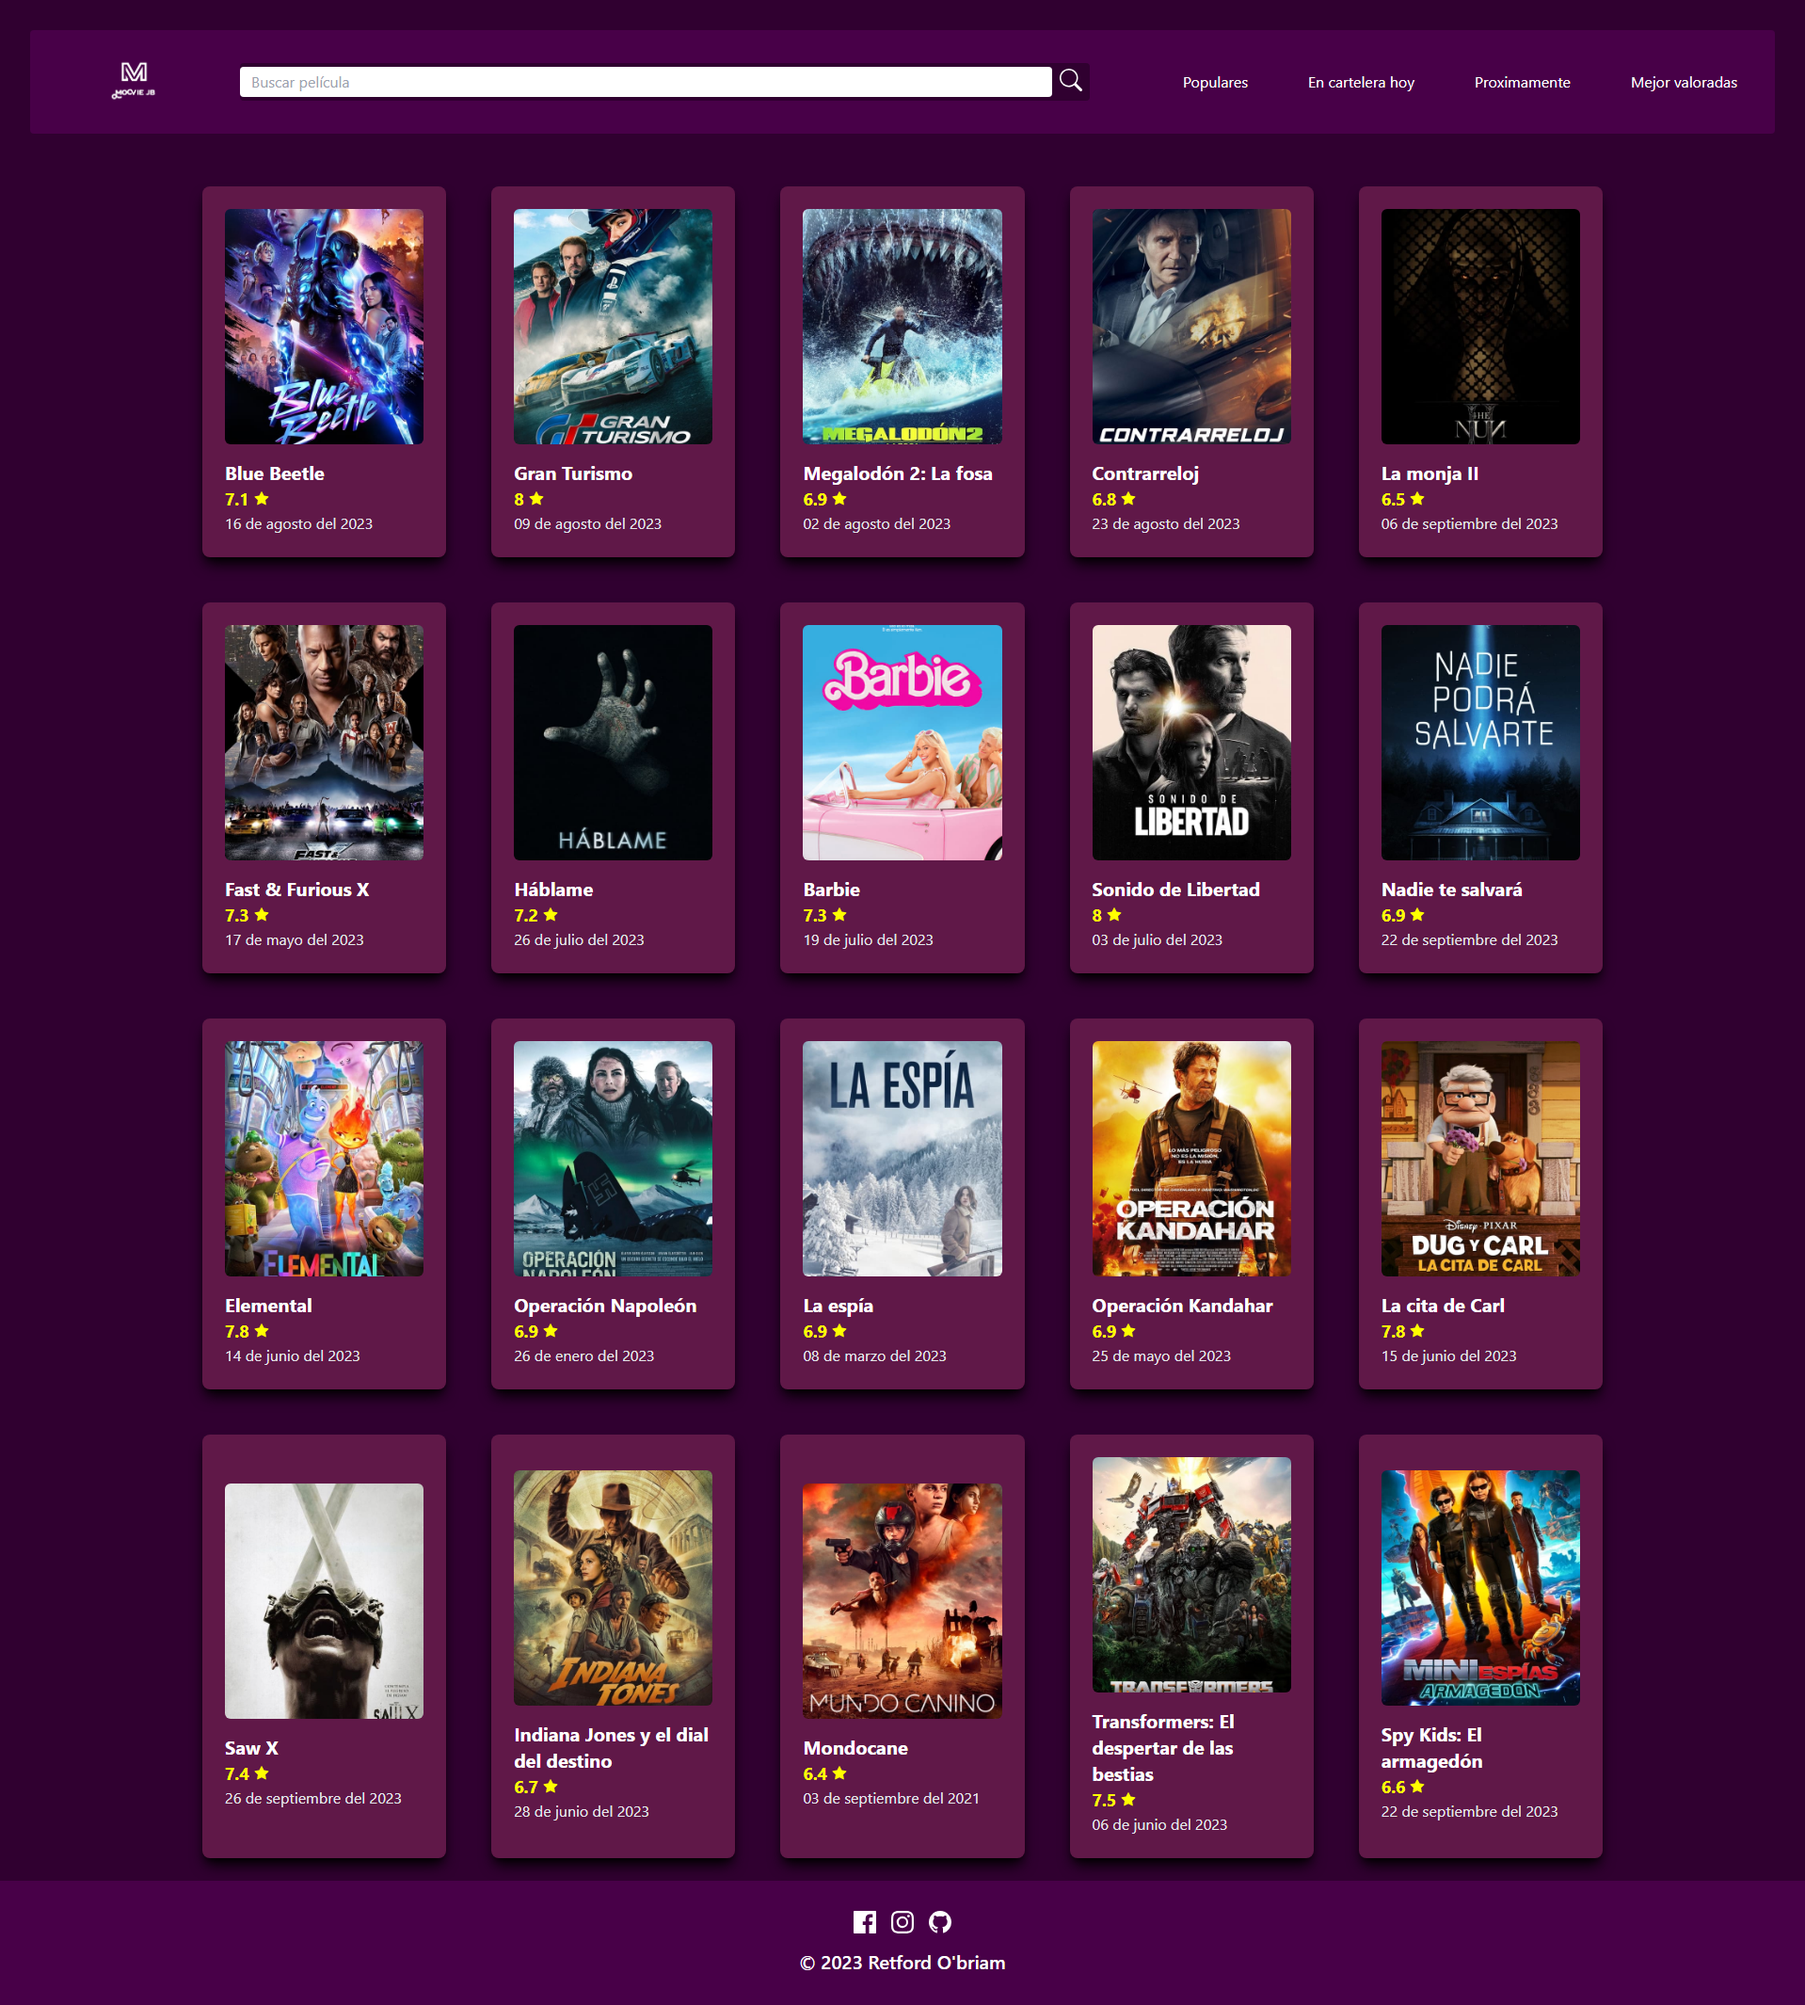
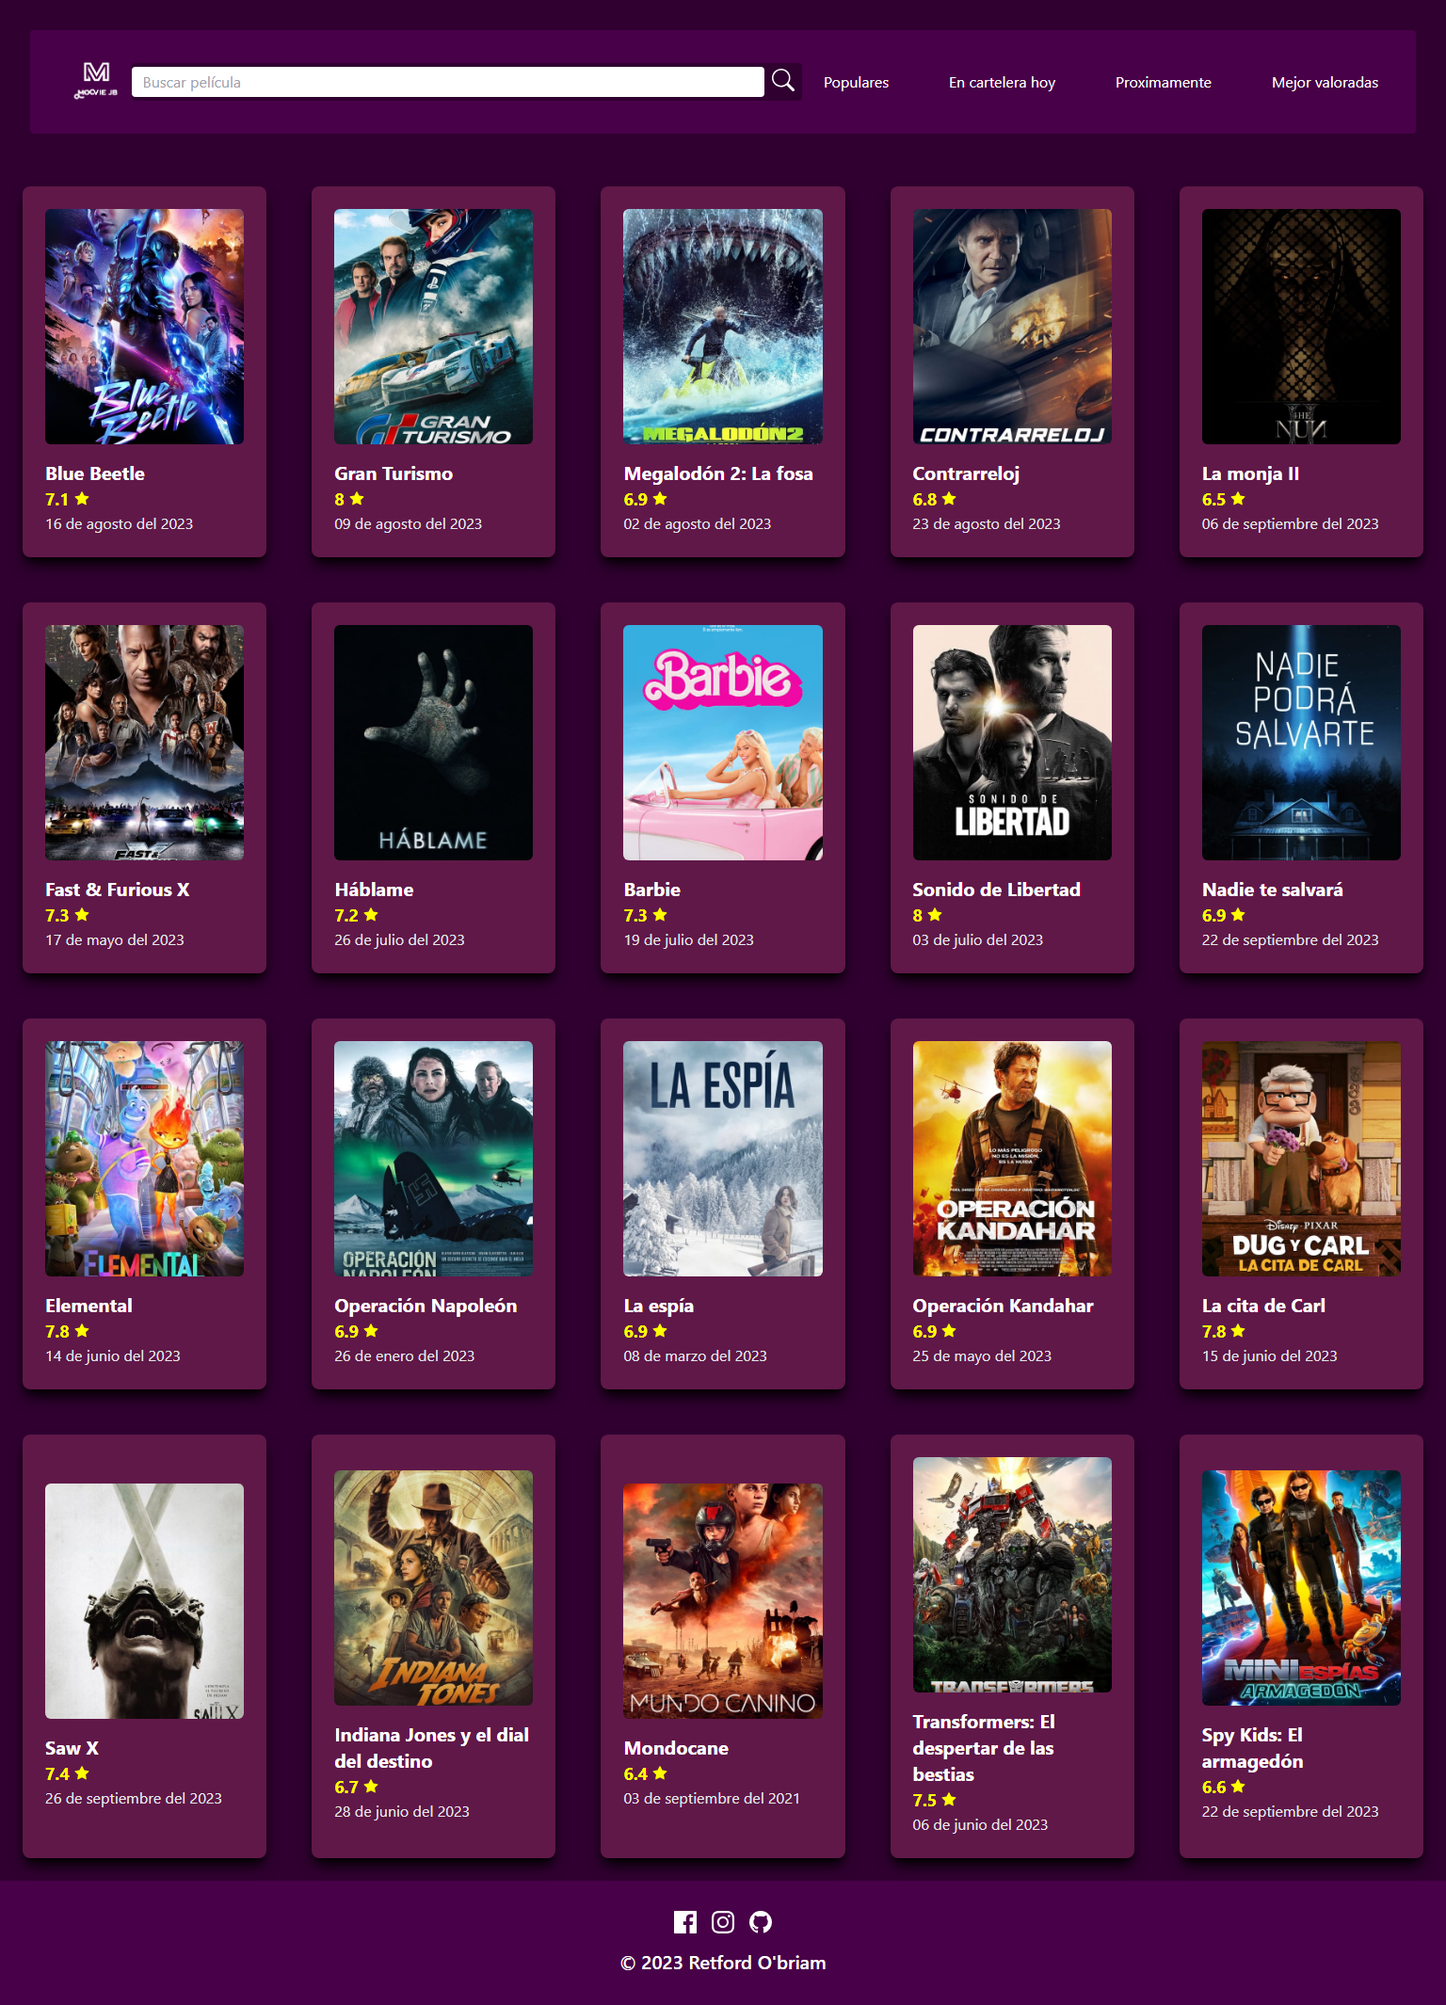
upload images

diff --git a/src/components/Cards.tsx b/src/components/Cards.tsx
@@ -14,13 +14,6 @@ export const Cards = ({
 }: Project) => {
   const windowSize = useWindowSize();
   const sizeCardMobile = windowSize - 32;
-  //430
-  // 18
-  // 412
-
-  // 370
-  // 352
-  // 18
 
   return (
     <section
@@ -28,8 +21,8 @@ export const Cards = ({
       style={{ width: `${sizeCardMobile}px`, height: `${sizeCardMobile}px` }}
     >
       <article className='flex flex-col gap-5'>
-        <figure className='rounded-[10px] max-h-[200px] overflow-hidden'>
-          <img src={imageUrl} alt={title} />
+        <figure className='rounded-[10px] max-h-[200px] overflow-hidden aspect-[35/20]'>
+          <img src={imageUrl} alt={title} className='object-cover' />
         </figure>
 
         <div className='flex flex-col gap-[14px]'>

diff --git a/src/data/ProjectsData.tsx b/src/data/ProjectsData.tsx
@@ -26,10 +26,10 @@ export const projects: Project[] = [
     ],
   },
   {
-    imageUrl: '',
+    imageUrl: '/src/assets/images/projects/home-next-car.png',
     title: 'xd',
     desc: '',
-    linkProject: 'https://movie-app-mu-nine.vercel.app/',
+    linkProject: 'https://next-car-mu.vercel.app/',
     icons: [
       {
         icon: <ReactIcon className='w-9 h-9 hover:rounded-full' />,
